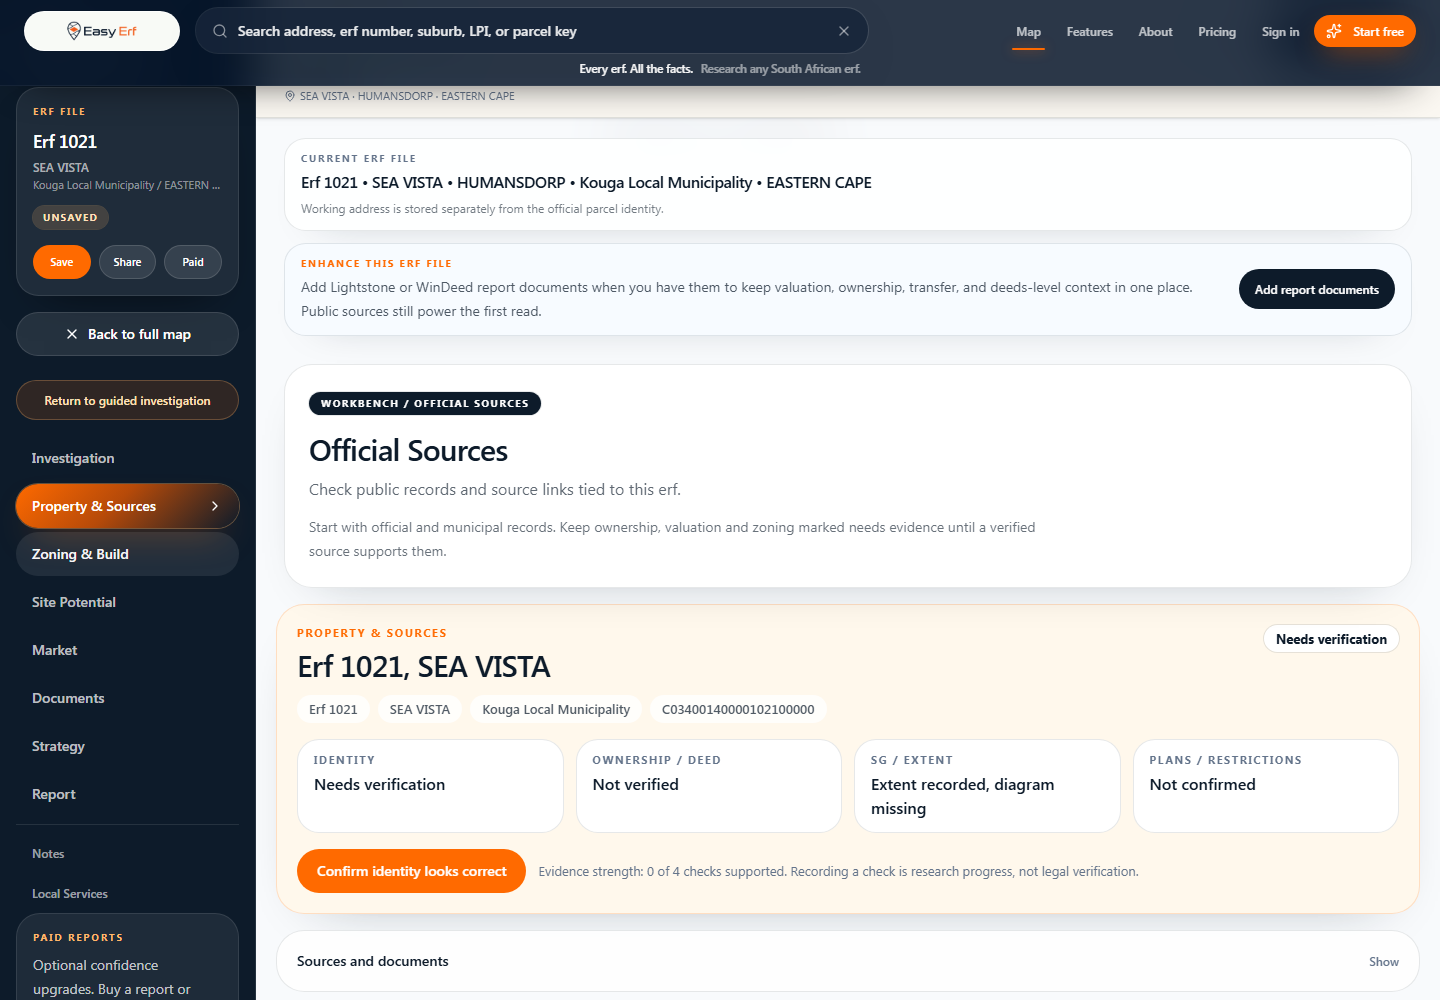
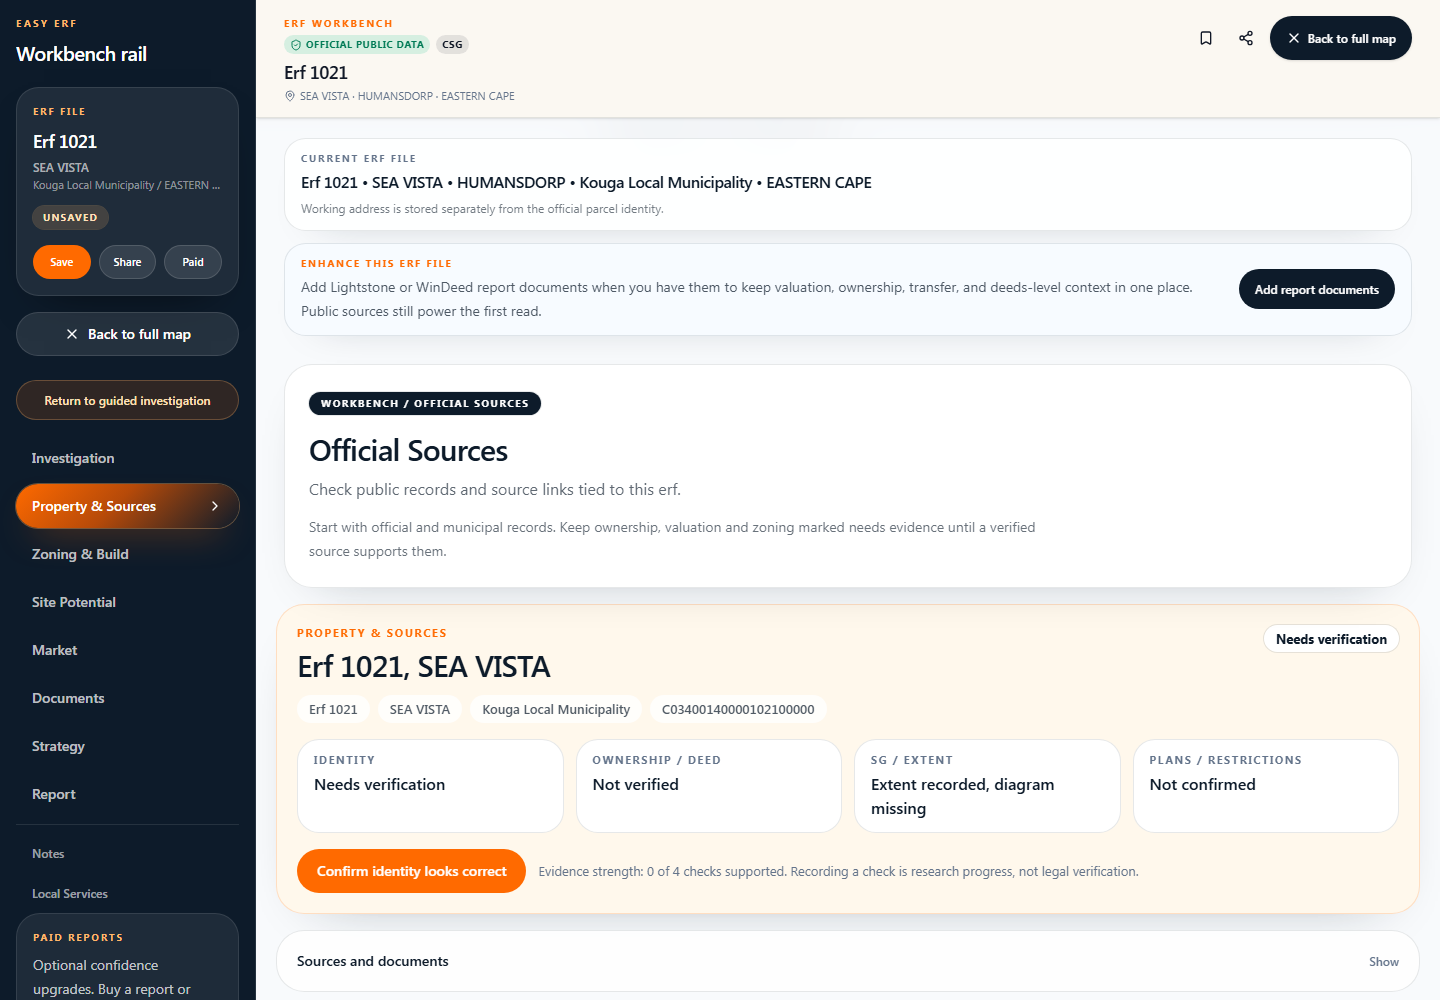
Address guided Investigation review feedback

Changed region(s): [[0.1562, 0.0, 1.0, 0.124], [0.0, 0.0, 0.125, 0.062], [0.0312, 0.527, 0.0938, 0.558]]

diff --git a/src/components/property/OfficialParcelPanel.tsx b/src/components/property/OfficialParcelPanel.tsx
@@ -2181,7 +2181,8 @@ export function OfficialParcelPanel({ selection, onClose }: Props) {
     .join(" / ");
 
   return (
-    <aside className="pointer-events-auto fixed inset-0 z-50 h-[100dvh] overflow-hidden bg-[#f8fafc]/96 shadow-[0_28px_90px_rgba(13,27,42,0.28)] backdrop-blur-xl">
+    <aside className="pointer-events-auto fixed inset-0 z-[80] h-[100dvh] overflow-hidden bg-[#f8fafc]/96 shadow-[0_28px_90px_rgba(13,27,42,0.28)] backdrop-blur-xl">
+      {expertWorkspaceOpen && (
       <nav className="hidden absolute inset-y-0 left-0 z-40 w-64 overflow-y-auto overscroll-contain border-r border-white/10 bg-[#0D1B2A] p-4 text-white md:flex md:flex-col [scrollbar-width:thin]">
         <div className="mb-5">
           <div className="text-[10px] font-bold uppercase tracking-[0.22em] text-[#FFB86B]">
@@ -2345,8 +2346,14 @@ export function OfficialParcelPanel({ selection, onClose }: Props) {
           </div>
         </div>
       </nav>
+      )}
 
-      <header className="sticky top-0 z-30 flex shrink-0 flex-wrap items-start justify-between gap-3 border-b border-[#0D1B2A]/10 bg-[#fbf8f1]/95 px-4 pb-3 pt-4 shadow-sm backdrop-blur max-md:pt-[calc(env(safe-area-inset-top)+0.75rem)] md:ml-64 md:px-7">
+      <header
+        className={cn(
+          "sticky top-0 z-30 flex shrink-0 flex-wrap items-start justify-between gap-3 border-b border-[#0D1B2A]/10 bg-[#fbf8f1]/95 px-4 pb-3 pt-4 shadow-sm backdrop-blur max-md:pt-[calc(env(safe-area-inset-top)+0.75rem)] md:px-7",
+          expertWorkspaceOpen ? "md:ml-64" : "",
+        )}
+      >
         <div className="min-w-0">
           <div className="mb-1 text-[10px] font-bold uppercase tracking-[0.2em] text-[#FF6A00]">
             Erf Workbench
@@ -2439,7 +2446,10 @@ export function OfficialParcelPanel({ selection, onClose }: Props) {
 
       <div
         ref={scrollRef}
-        className="scrollbar-thin relative h-[calc(100dvh-5.25rem)] min-h-0 overflow-y-auto overscroll-contain pb-8 md:ml-64"
+        className={cn(
+          "scrollbar-thin relative h-[calc(100dvh-5.25rem)] min-h-0 overflow-y-auto overscroll-contain pb-8",
+          expertWorkspaceOpen ? "md:ml-64" : "",
+        )}
       >
         {!isInvestigation && (
           <>

diff --git a/src/components/property/investigation/__tests__/guidedComponents.test.tsx b/src/components/property/investigation/__tests__/guidedComponents.test.tsx
@@ -145,4 +145,39 @@ describe("guided investigation components", () => {
     expect(html).not.toContain("Analyse listing");
     expect(html).not.toContain("Run calculator");
   });
+
+  it("does not render the shared Continue control as a Step 1 bypass before confirmation", () => {
+    const workspace = createEmptyErfWorkspaceState();
+    const steps = buildGuidedInvestigationJourney(
+      {
+        ...facts(),
+        identityConfirmed: false,
+        identityChecked: false,
+      },
+      workspace,
+    );
+    const confirmStep = steps.find((step) => step.id === "confirm-property");
+    if (!confirmStep) throw new Error("Expected confirm-property step");
+
+    const html = renderToStaticMarkup(
+      <InvestigationStepShell
+        step={confirmStep}
+        steps={steps}
+        onSelectStep={noop}
+        onSkipStep={noop}
+        onOpenExpertWorkspace={noop}
+      >
+        <ConfirmPropertyStep
+          parcel={parcel()}
+          workspaceState={workspace}
+          onConfirm={noop}
+          onFlagUncertain={noop}
+          onBackToMap={noop}
+        />
+      </InvestigationStepShell>,
+    );
+
+    expect(html).toContain("Yes, this is the correct erf");
+    expect(html).not.toContain("Continue");
+  });
 });

diff --git a/src/components/property/investigation/InvestigationStepShell.tsx b/src/components/property/investigation/InvestigationStepShell.tsx
@@ -28,6 +28,7 @@ export function InvestigationStepShell({
   const previous = steps[step.index - 2] ?? null;
   const next = steps[step.index] ?? null;
   const isPreview = step.id !== "confirm-property";
+  const canUseSharedContinue = step.id !== "confirm-property";
 
   return (
     <section className="rounded-[1.5rem] border border-[#0D1B2A]/10 bg-white p-5 shadow-[0_22px_56px_-42px_rgba(13,27,42,0.5)] md:p-6">
@@ -99,7 +100,7 @@ export function InvestigationStepShell({
             </button>
           )}
         </div>
-        {next && (
+        {next && canUseSharedContinue && (
           <button
             type="button"
             onClick={() => onSelectStep(next.id)}
